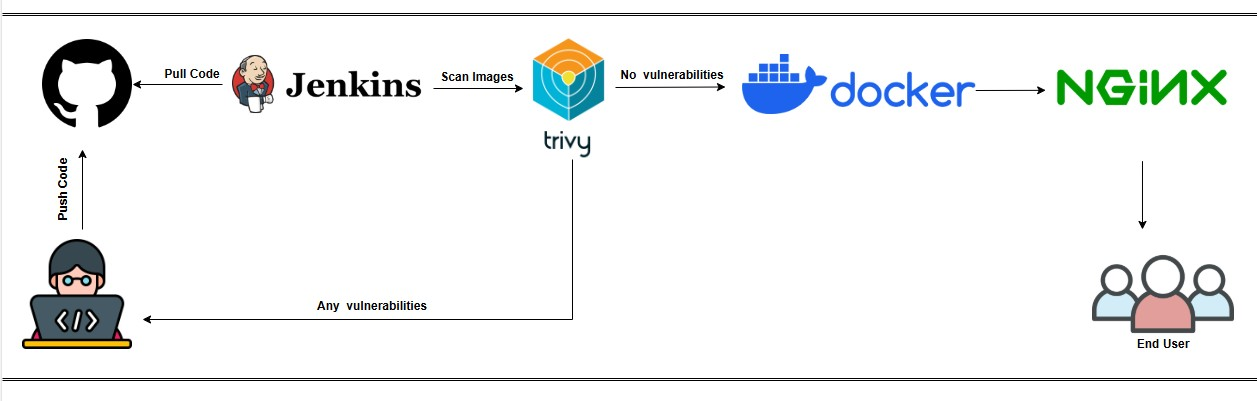
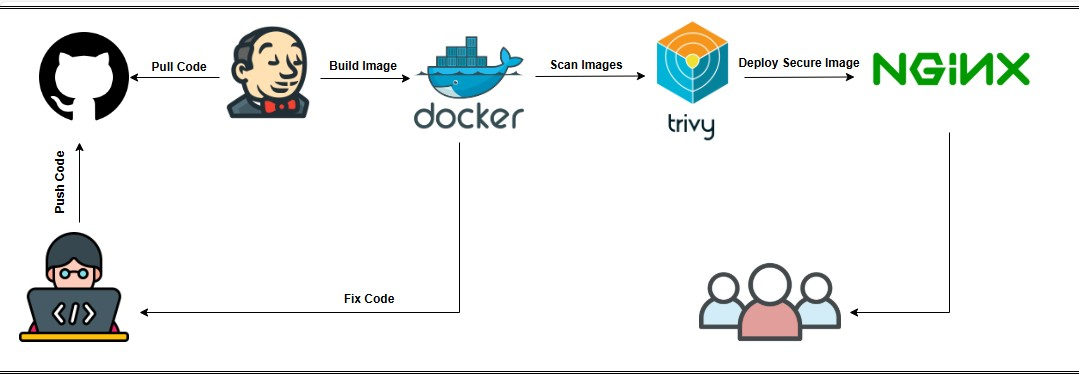
Docker-Trivy

diff --git a/Docker-Trivy/Readme.md b/Docker-Trivy/Readme.md
@@ -1,1 +1,221 @@
+
+# Automating Docker Image Security Scanning with Jenkins and Trivy
+
+This project demonstrates how to automate vulnerability scanning of Docker images using Trivy integrated with Jenkins. It includes steps to configure an EC2 instance, install prerequisites, set up Jenkins, and create a pipeline to build Docker images, scan them with Trivy, and archive the reports.
+
+---
+
+## Features
+
+- **Automated Docker Builds**: Jenkins automates the creation of Docker images.
+- **Vulnerability Scanning**: Trivy scans Docker images for vulnerabilities and generates reports.
+- **Email Notifications**: Developers are notified of scan results via email.
+- **Artifact Archival**: Trivy reports are archived in Jenkins for easy access.
+
+---
 ![](/Docker-Trivy/Docker-Trivy.jpg)
+
+---
+
+## Setup Instructions
+
+### 1. Create an EC2 Instance
+
+- Launch an Amazon EC2 instance with minimal configuration (e.g., t2.medium).
+- Use Amazon Linux 2 as the operating system.
+
+### 2. Install Prerequisites
+
+#### a. Connect to the Instance
+
+- Use SSH to connect:
+  ```bash
+  ssh -i your-key.pem ec2-user@<instance-ip>
+  ```
+
+#### b. Update the System
+
+- Update the system packages:
+  ```bash
+  sudo yum update -y
+  ```
+
+#### c. Install Git
+
+- Install Git for source code management:
+  ```bash
+  sudo yum install git -y
+  ```
+
+#### d. Install Docker
+
+1. Install Docker:
+   ```bash
+   sudo yum install docker -y
+   ```
+2. Install Docker Compose:
+   ```bash
+   sudo curl -L "https://github.com/docker/compose/releases/download/v2.21.0/docker-compose-$(uname -s)-$(uname -m)" -o /usr/local/bin/docker-compose
+   sudo chmod +x /usr/local/bin/docker-compose
+   ```
+3. Start and enable Docker:
+   ```bash
+   sudo systemctl start docker
+   sudo systemctl enable docker
+   ```
+4. Add the `ec2-user` to the Docker group:
+   ```bash
+   sudo usermod -aG docker ec2-user
+   ```
+   **Why?**: Adding the `ec2-user` to the Docker group allows the user to execute Docker commands without `sudo`. This simplifies automation scripts and Jenkins integration.
+
+#### e. Install Java
+
+- Install Java (required for Jenkins):
+  ```bash
+  amazon-linux-extras enable corretto17
+  sudo yum install -y java-17-amazon-corretto
+  ```
+
+#### f. Install Jenkins
+
+1. Add the Jenkins repository and key:
+
+   ```bash
+   sudo wget -O /etc/yum.repos.d/jenkins.repo https://pkg.jenkins.io/redhat/jenkins.repo
+   sudo rpm --import https://pkg.jenkins.io/redhat/jenkins.io-2023.key
+   ```
+
+2. Install Jenkins:
+
+   ```bash
+   sudo yum install jenkins -y
+   sudo systemctl enable jenkins
+   sudo systemctl start jenkins
+   ```
+
+3. Add Jenkins to the Docker group:
+
+   ```bash
+   sudo usermod -aG docker jenkins
+   ```
+
+   **Why?**: Jenkins requires access to the Docker daemon to execute Docker commands. Adding Jenkins to the Docker group grants these permissions.
+
+4. Restart Jenkins and Docker:
+
+   ```bash
+   sudo systemctl restart jenkins
+   sudo systemctl restart docker
+   ```
+
+#### g. Install Trivy
+
+1. Install Trivy:
+   ```bash
+   curl -sfL https://raw.githubusercontent.com/aquasecurity/trivy/main/contrib/install.sh | sh
+   ```
+2. Move Trivy to a global directory:
+   ```bash
+   sudo mv /root/bin/trivy /usr/local/bin/trivy
+   ```
+   **Why?**: Placing Trivy in `/usr/local/bin` ensures it is accessible to all users, including Jenkins.
+
+---
+
+### 3. Access Jenkins
+
+1. Navigate to Jenkins in your browser:
+   ```
+   http://<instance-ip>:8080
+   ```
+2. Unlock Jenkins using the initial admin password:
+   ```bash
+   sudo cat /var/lib/jenkins/secrets/initialAdminPassword
+   ```
+3. Install the recommended plugins and create an admin user.
+
+---
+
+### 4. Install Jenkins Plugins
+
+- Install the following plugins:
+  - **Git Plugin**
+  - **Docker Plugin**
+  
+
+---
+
+### 5. Update Jenkins Environment Variables
+
+1. If Trivy is not accessible, update the PATH environment variable:
+   - Go to **Manage Jenkins** → **Configure System** → **Global Properties**.
+   - Add the following PATH:
+     ```
+     /root/bin:/usr/local/bin:/usr/bin:/bin
+     ```
+2. Restart Jenkins:
+   ```bash
+   sudo systemctl restart jenkins
+   ```
+
+---
+
+
+
+### 6. Configure the Jenkins Pipeline
+
+1. Create a **freestyle job** in Jenkins.
+
+2. Use the following GitHub repository:
+
+   ```
+   https://github.com/DevopsProjects05/Sample-E-Commerce-Project.git
+   ```
+
+   - Branch: `main`
+
+3. Add the following shell commands in the **Build** section:
+
+   ```bash
+   cd Docker-Compose
+   docker build -t nginx-image .
+   trivy image nginx-image > trivy-report-nginx-image.txt
+   ```
+
+4. Configure **Post-build Actions**:
+
+   - **Archive the Artifacts**:
+     ```
+     trivy-report-nginx-image.txt
+     ```
+   - **E-mail Notification**:
+     - Add the developer's email address.
+     - Jenkins will send the Trivy report after each build.
+
+---
+
+## Additional Notes
+
+1. **Adding Users to Groups**:
+
+   - **`ec2-user`**\*\* to Docker Group\*\*: Grants non-root users access to Docker commands.
+   - **`jenkins`**\*\* to Docker Group\*\*: Allows Jenkins to interact with the Docker daemon for automation tasks.
+
+2. **Trivy Scan**:
+
+   - The Trivy scan checks for vulnerabilities in Docker images.
+   - The `--exit-code 1` option ensures the build fails if high or critical vulnerabilities are found.
+
+---
+
+## Project Output
+
+- The Trivy report (`trivy-report-nginx-image.txt`) includes:
+  - Vulnerability details categorized by severity (LOW, MEDIUM, HIGH, CRITICAL).
+  - Recommendations for remediation.
+
+---
+
+
+
